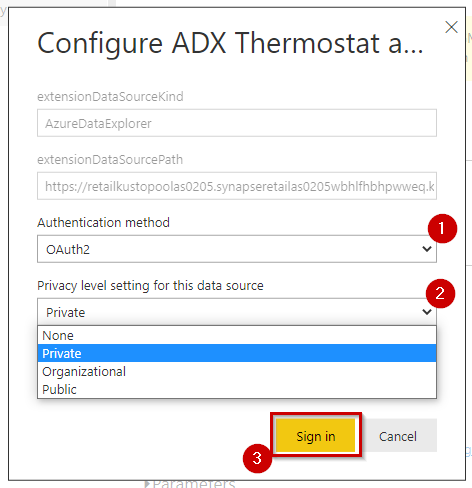
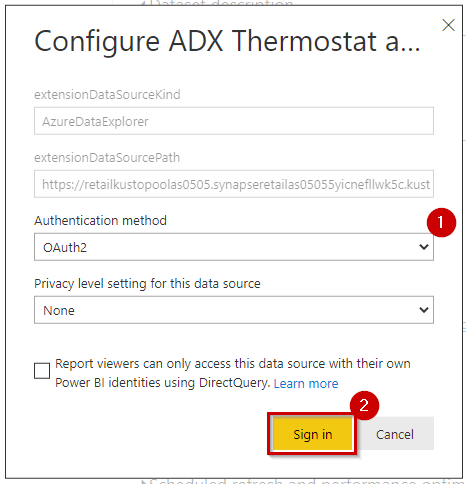
updated media files, main script and readme-shell.md

diff --git a/retail/Readme-shell.md b/retail/Readme-shell.md
@@ -304,26 +304,30 @@ cd ./retail/retail
 ```
     
 ![Commands to run the PowerShell Script.](media/cloud-shell-5.png)
-      
-7. From the Azure Cloud Shell, **copy** the authentication code
 
-8. Click on the link [https://microsoft.com/devicelogin](https://microsoft.com/devicelogin) and a new browser window will launch.
+7. You will see the below screen, **enter** 'Y' and **press** enter key.
+
+	![Commands to run the PowerShell Script.](media/cloud-shell-18.png)
+      
+8. From the Azure Cloud Shell, **copy** the authentication code
+
+9. Click on the link [https://microsoft.com/devicelogin](https://microsoft.com/devicelogin) and a new browser window will launch.
 
 	![Authentication link and Device Code.](media/cloud-shell-6.png)
      
-9. **Paste** the authentication code.
+10. **Paste** the authentication code.
 
 	![New Browser Window to provide the Authentication Code.](media/cloud-shell-7.png)
 
-10. **Select** the same user that you used for signing in to the Azure Portal in [Task 1](#task-1-create-a-resource-group-in-azure).
+11. **Select** the same user that you used for signing in to the Azure Portal in [Task 1](#task-1-create-a-resource-group-in-azure).
 
 	![Select the User Account which you want to Authenticate.](media/cloud-shell-8.png)
 
-11. **Close** the browser tab once you see the message window at right and **go back** to your Azure Cloud Shell execution window.
+12. **Close** the browser tab once you see the message window at right and **go back** to your Azure Cloud Shell execution window.
 
 	![Authentication done.](media/cloud-shell-9.png)
 
-12. Now you will be prompted to select subscription if you have multiple subscription assigned to the user you used for device login.
+13. Now you will be prompted to select subscription if you have multiple subscription assigned to the user you used for device login.
 
     ![Close the browser tab.](media/select-sub.png)
 	
@@ -332,19 +336,23 @@ cd ./retail/retail
 	> - The subscription highlighted in yellow will be selected by default if you do not enter any disired subscription. Please select the subscription carefully, as it may break the execution further.
 	> - While you are waiting for processes to get completed in the Azure Cloud Shell window, you'll be asked to enter the code three times. This is necessary for performing installation of various Azure Services and preloading content in the Azure Synapse Analytics SQL Pool tables.
 
-13. You will now be prompted to **enter** the resource group name in the Azure Cloud Shell. Type the same resource group name that you created in [Task 1](#task-1-create-a-resource-group-in-azure). – 'DDiB-Retail-Lab'.
+14. You will be asked to confirm for the subscription, **enter** 'Y' and **press** enter key.
+
+	![Commands to run the PowerShell Script.](media/cloud-shell-19.png)
+
+15. You will now be prompted to **enter** the resource group name in the Azure Cloud Shell. Type the same resource group name that you created in [Task 1](#task-1-create-a-resource-group-in-azure). – 'DDiB-Retail-Lab'.
 
 	![Enter Resource Group name.](media/cloud-shell-14.png)
 	
-14. Now you will be prompted whether you have an unlimited video indexer account, **press** enter key.
+16. Now you will be prompted whether you have an unlimited video indexer account, **press** enter key.
 
 	![Enter Resource Group name.](media/cloud-shell-15.png)
 
-15. After the complete script has been executed, you get to see a messages "--Execution Complete--", now **go to** the Azure Portal and **search** for app services, **open** each one of them.
+17. After the complete script has been executed, you get to see a messages "--Execution Complete--", now **go to** the Azure Portal and **search** for app services, **open** each one of them.
 
 	![Enter Resource Group name.](media/cloud-shell-16.png)
 	
-16. **Click** on the browse button for **each one** of the app services once, a new window will appear, **close** the window.
+18. **Click** on the browse button for **each one** of the app services once, a new window will appear, **close** the window.
 
 	![Enter Resource Group name.](media/cloud-shell-17.png)
       
@@ -614,7 +622,7 @@ To give permissions for the Power BI reports to access the data sources:
 
 17. **Expand** Data source credentials.
 
-18. **Click** Edit credentials in fornt of Synapse and a dialogue box will pop up.
+18. **Click** Edit credentials in front of Synapse and a dialogue box will pop up.
 
 	![Data Source Creds.](media/power-bi-report-01.png)
 
@@ -630,11 +638,11 @@ To give permissions for the Power BI reports to access the data sources:
 
 22. **Expand** Data source credentials.
 
-23. **Click** Edit credentials in fornt of AzureDataExplorer and a dialogue box will pop up.
+23. **Click** Edit credentials in front of AzureDataExplorer and a dialogue box will pop up.
 
 	![Data Source Creds.](media/power-bi-report-04.png)
 
-24. Keeping the "Authentication method" as "OAuth2", **select** "Privacy level setting for this data source" from the three dropdown values and **click** on Sign in.
+24. Keeping the "Authentication method" as "OAuth2" and **click** on Sign in.
 
 	![Validate Creds.](media/power-bi-report-05.png)
 
@@ -646,7 +654,7 @@ To give permissions for the Power BI reports to access the data sources:
 
 27. **Expand** Data source credentials.
 
-28. **Click** Edit credentials in fornt of DocumentDB and a dialogue box will pop up.
+28. **Click** Edit credentials in front of DocumentDB and a dialogue box will pop up.
 
 	![Data Source Creds.](media/power-bi-report-06.png)
 
@@ -661,198 +669,218 @@ To give permissions for the Power BI reports to access the data sources:
 31. In the powerbi tab in step #28, keeping the "Authentication method" as "Key", **paste** "Account key" from step #30 and **click** on Sign in.
 
 	![Validate Creds.](media/power-bi-report-09.png)
+	
+32. **Click** on the Global Occupational Safety Report.
+
+33. **Expand** Data source credentials.
+
+34. **Click** Edit credentials in front of AzureTable and a dialogue box will pop up.
+
+	![Validate Creds.](media/power-bi-report-010.png)
+	
+35. Go to Azure portal and **search** for 'stretail' and **click** on the storage account.
+
+	![Validate Creds.](media/power-bi-report-011.png)
+	
+36. In the storage account resource, under the Security + networking section **click** on Access keys, **click** on Show keys and then **copy** the key.
+
+	![Validate Creds.](media/power-bi-report-012.png)
+	
+37. Paste the key in the pop-up in step #34, under Account key and **click** on Sign in.
+
+	![Validate Creds.](media/power-bi-report-013.png)
 
 Follow these steps to create the Power BI dashboard:
 
-16. **Select** the workspace created in [Task 2](#task-2-power-bi-workspace-creation).
+38. **Select** the workspace created in [Task 2](#task-2-power-bi-workspace-creation).
 
 	![Select Workspace.](media/power-bi-report-9.png)
 	
-17. **Click** on ‘+ New’ button on the top-right navigation bar.
+39. **Click** on ‘+ New’ button on the top-right navigation bar.
 
-18. **Click** the ‘Dashboard’ option from the drop-down menu.
+40. **Click** the ‘Dashboard’ option from the drop-down menu.
 
       ![New Dashboard.](media/power-bi-report-10.png)
 
-19. **Name** the dashboard 'CEO Dashboard - May' and **click** 'create'.
+41. **Name** the dashboard 'CEO Dashboard - May' and **click** 'create'.
 
 	![Create Dashboard further steps.](media/power-bi-report-11.png)
 
-20. This new dashboard will appear in the 'Dashboard' section of the Power BI workspace.
+42. This new dashboard will appear in the 'Dashboard' section of the Power BI workspace.
 
 **Follow these steps to pin the report to the Power BI dashboard:**
 
-21. **Search** the report 'CDP Vision Report' and then **click** on the report to open it.
+43. **Search** the report 'CDP Vision Report' and then **click** on the report to open it.
 
 	![Create Dashboard further steps.](media/power-bi-report-12.png)
 
-22. Inside the report 'CDP Vision Report' **select** 'Pillar 1 May'.
+44. Inside the report 'CDP Vision Report' **select** 'Pillar 1 May'.
 
 	![Select Pillar 1 before.](media/power-bi-report-13.png)
 
-23. **Click** on 'Edit' at the top of the right corner.
+45. **Click** on 'Edit' at the top of the right corner.
 
 	![Select Pillar 1 before.](media/power-bi-report-14.png)	
 
-24. **Hover** over the tile and **click** on the icon to 'Pin to dashboard'.
+46. **Hover** over the tile and **click** on the icon to 'Pin to dashboard'.
 
 	![Select Pin to dashboard.](media/power-bi-report-15.png)
 
-25. 'Pin to dashboard' window will appear.
+47. 'Pin to dashboard' window will appear.
 
-26. **Select** the 'Existing Dashboard' radio button.
+48. **Select** the 'Existing Dashboard' radio button.
 
-27. **Select** the existing dashboard 'CEO Dashboard - May' and **click** on the 'Pin' button.
+49. **Select** the existing dashboard 'CEO Dashboard - May' and **click** on the 'Pin' button.
 
 	![Pin to dashboard further steps.](media/power-bi-report-16.png)
 
-28. Similarly, **pin** the others tiles to the Dashboard
+50. Similarly, **pin** the others tiles to the Dashboard
 
 	![Pin to dashboard further steps.](media/power-bi-report-17.png)
 
-29. **Select** workpace created in [Task 2](#task-2-power-bi-workspace-creation) in the left pane.
+51. **Select** workpace created in [Task 2](#task-2-power-bi-workspace-creation) in the left pane.
 
 	![Select Workspace.](media/power-bi-report-18.png)
 	
-30. **Open** ‘Dashboard-Images’ report.
+52. **Open** ‘Dashboard-Images’ report.
 
 	![Select Workspace.](media/power-bi-report-19.png)
 	
-31. **Click** on 'REtail 270821' page.
+53. **Click** on 'REtail 270821' page.
 
-32. **Click** on Edit.
+54. **Click** on Edit.
 
 	![Click on edit.](media/power-bi-report-20.png)
 	
-33. **Hover** on Deep Dive chicklet and **click** pin button.
+55. **Hover** on Deep Dive chicklet and **click** pin button.
 
 	![Hover and Click.](media/power-bi-report-21.png)
 	
-34. Select the ‘CEO Dashboard - May’ from existing dashboard list and **click** on pin.
+56. Select the ‘CEO Dashboard - May’ from existing dashboard list and **click** on pin.
 	
 	![Hover and Click.](media/power-bi-report-22.png)
 
-35. Similarly pin rest of the images of the ‘Dashboard-Images’ report.
+57. Similarly pin rest of the images of the ‘Dashboard-Images’ report.
 	
 	![Select Dashboard and Click Pin.](media/power-bi-report-23.png)
 	
-36. **Go back** to the ‘CEO Dashboard - May’ dashboard.
+58. **Go back** to the ‘CEO Dashboard - May’ dashboard.
 
 	![Go back to Dashboard.](media/power-bi-report-24.png)
 	
 To hide title and subtitle for all the images that you have pined above. Please do the following:
 
-40. Hover on the chiclet and **Click** on ellipsis ‘More Options’ of the image you selected.
+59. Hover on the chiclet and **Click** on ellipsis ‘More Options’ of the image you selected.
 
-41. **Click** on ‘Edit details’.
+60. **Click** on ‘Edit details’.
 
 	![Click on Edit Details.](media/power-bi-report-25.png)
 	
-42. **Uncheck** ‘Display title and subtitle’.
+61. **Uncheck** ‘Display title and subtitle’.
 
-43. **Click** on ‘Apply’.
+62. **Click** on ‘Apply’.
 
-44. **Repeat** Step 38 to 43 for all image tiles.
+63. **Repeat** Step 38 to 43 for all image tiles.
 
 	![Click apply and repeat.](media/power-bi-report-26.png)
 	
-45. After disabling ‘Display title and subtitle’ for all images, **resize** and **rearrange** the top images tiles as shown in the screenshot. 
+64. After disabling ‘Display title and subtitle’ for all images, **resize** and **rearrange** the top images tiles as shown in the screenshot. 
 	
 	![Resize and Rearrange.](media/power-bi-report-27.png)
 	
-46. Similarly pin left image tiles from ‘REtail 270821’ of chicklets report to the CEO Dashboard - May dashboard.
+65. Similarly pin left image tiles from ‘REtail 270821’ of chicklets report to the CEO Dashboard - May dashboard.
 
-47. **Resize** and **rearrange** the left images tiles as shown in the screenshot. Resize the KPI tile to 1x2. Resize the Deep Dive to 1x4. Resize the logo to 1x1 size; resize other vertical tiles to 2x1 size.  
+66. **Resize** and **rearrange** the left images tiles as shown in the screenshot. Resize the KPI tile to 1x2. Resize the Deep Dive to 1x4. Resize the logo to 1x1 size; resize other vertical tiles to 2x1 size.  
 
 	![Resize and Rearrange again.](media/power-bi-report-28.png)
 	
-48. You will see some KPIs or charts like this KPI with title and subtitle. 1. Title, 2. Subtitle.
+67. You will see some KPIs or charts like this KPI with title and subtitle. 1. Title, 2. Subtitle.
 	
 	![Will see some KPIs.](media/power-bi-report-29.png)
 	
-49. **Hover** over the cards and charts and go to more options (…)
+68. **Hover** over the cards and charts and go to more options (…)
 
-50. **Click** on Edit Details.
+69. **Click** on Edit Details.
 	
 	![Hover and Click on Edit Details.](media/power-bi-report-30.png)
 	
-51. You will see something like this picture where you can add subtitle.
+70. You will see something like this picture where you can add subtitle.
 
 	![Will see.](media/power-bi-report-31.png)
 	
-52. The Dashboard **CEO Dashboard - May** should finally look like this. Table in following row indicates which KPI’s need to be pinned from which report to achieve this final look.
+71. The Dashboard **CEO Dashboard - May** should finally look like this. Table in following row indicates which KPI’s need to be pinned from which report to achieve this final look.
 
 	![Final Look.](media/power-bi-report-32.png)
 	
-53. **Refer** to this table while pinning rest of the tiles to the dashboard.
+72. **Refer** to this table while pinning rest of the tiles to the dashboard.
 
 	![Table.](media/power-bi-table-1.png)
 
-54. Here is the list of Dashboards you have to create for Retail and the report to migrate to prod environment. You will see the necessary details for the same below. You must refer to the [Excel](https://github.com/microsoft/Azure-Analytics-and-AI-Engagement/blob/retail2.0/retail/KPIS%20Dashboards%20mapping%20Retail%202.0.xlsx) file for pinning the tiles to the dashboard.
+73. Here is the list of Dashboards you have to create for Retail and the report to migrate to prod environment. You will see the necessary details for the same below. You must refer to the [Excel](https://github.com/microsoft/Azure-Analytics-and-AI-Engagement/blob/retail2.0/retail/KPIS%20Dashboards%20mapping%20Retail%202.0.xlsx) file for pinning the tiles to the dashboard.
 
 	![Final Look.](media/power-bi-report-33.png)
 
-55. **CEO Dashboard - Sep** should look like this. Following are the details of tiles for the same.
+74. **CEO Dashboard - Sep** should look like this. Following are the details of tiles for the same.
 
 	![Final Look.](media/power-bi-report-34.png)
 	
-56. **Refer** to this table while pinning rest of the tiles to the dashboard.	
+75. **Refer** to this table while pinning rest of the tiles to the dashboard.	
 
 	![Table.](media/power-bi-table-2.png)
 
-56. **CEO Dashboard - Oct** should look like this. Following are the details of tiles for the same.
+76. **CEO Dashboard - Oct** should look like this. Following are the details of tiles for the same.
 	
 	![Final Look.](media/power-bi-report-35.png)
 	
-57. **Refer** to this table while pinning rest of the tiles to the dashboard.	
+77. **Refer** to this table while pinning rest of the tiles to the dashboard.	
 
 	![Table.](media/power-bi-table-3.png)
 
-58. **CEO Dashboard - Nov** Dashboard should look like this. 
+78. **CEO Dashboard - Nov** Dashboard should look like this. 
 
 	![Final Look.](media/power-bi-report-36.png)
 	
-59. **Refer** to this table while pinning rest of the tiles to the dashboard.
+79. **Refer** to this table while pinning rest of the tiles to the dashboard.
 
 	![Table.](media/power-bi-table-4.png)
 	
-60. **CEO Dashboard - Dec** Dashboard should look like this.
+80. **CEO Dashboard - Dec** Dashboard should look like this.
 
 	![Final Look.](media/power-bi-report-37.png)
 	
-59. **Refer** to this table while pinning rest of the tiles to the dashboard.
+81. **Refer** to this table while pinning rest of the tiles to the dashboard.
 
 	![Table.](media/power-bi-table-5.png)
 	
-61. **ADX Dashboard** Dashboard should look like this.
+82. **ADX Dashboard** Dashboard should look like this.
 	
 	![Final Look.](media/power-bi-report-38.png)
 
-62. **Refer** to this table while pinning rest of the tiles to the dashboard.
+83. **Refer** to this table while pinning rest of the tiles to the dashboard.
 
 	![Table.](media/power-bi-table-6.png)
 
-63. **ESG Dashboard** Dashboard should look like this.
+84. **ESG Dashboard** Dashboard should look like this.
 
 	![Final Look.](media/power-bi-report-39.png)
 	
-64. **Refer** to this table while pinning rest of the tiles to the dashboard.
+85. **Refer** to this table while pinning rest of the tiles to the dashboard.
 
 	![Table.](media/power-bi-table-7.png)
 	
-65. **Finance Dashboard** Dashboard should look like this.
+86. **Finance Dashboard** Dashboard should look like this.
 
 	![Final Look.](media/power-bi-report-40.png)
 
-66. **Refer** to this table while pinning rest of the tiles to the dashboard.
+87. **Refer** to this table while pinning rest of the tiles to the dashboard.
 
 	![Table.](media/power-bi-table-8.png)
 	
-67. **VP Customer Experience Dashboard** Dashboard should look like this.
+88. **VP Customer Experience Dashboard** Dashboard should look like this.
 
 	![Final Look.](media/power-bi-report-41.png)
 
-68. **Refer** to this table while pinning rest of the tiles to the dashboard.
+89. **Refer** to this table while pinning rest of the tiles to the dashboard.
 
 	![Table.](media/power-bi-table-9.png)
 
